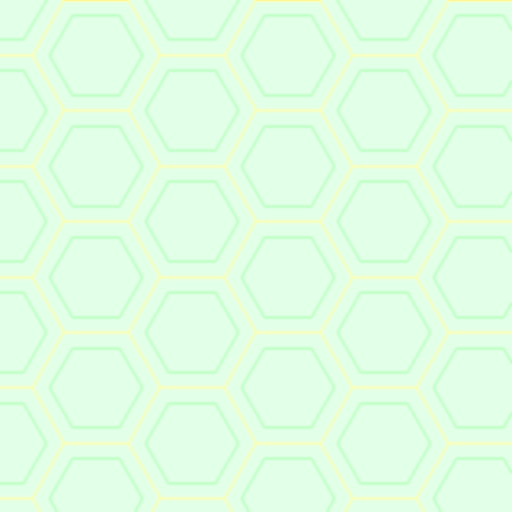
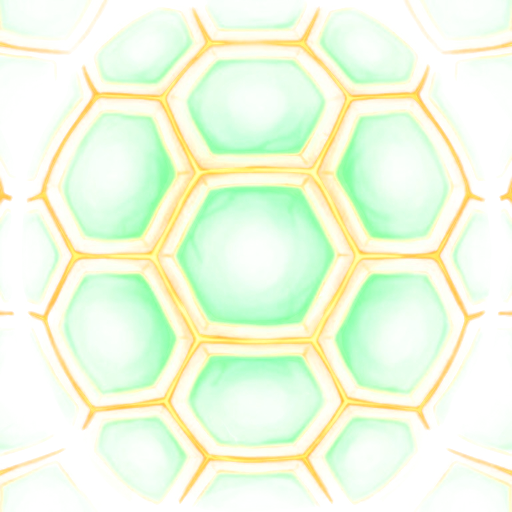
Muralha de Casco com a textura de casco gerada no Gemini
Claude-Session: https://claude.ai/code/session_01PxMUCP3EAMS7xMChCMNJhW

diff --git a/tools/vfx_texturas.py b/tools/vfx_texturas.py
@@ -136,6 +136,10 @@ if __name__ == '__main__':
             if path is None:
                 continue
             img = Image.open(path)
+            w, h = img.size
+            if w != h:  # IA às vezes entrega retangular: usa o quadrado do centro
+                m = min(w, h)
+                img = img.crop(((w - m) // 2, (h - m) // 2, (w + m) // 2, (h + m) // 2))
             img = img.resize((s, s), Image.LANCZOS)
             rgb, alpha = from_black(img)
             save_rgba(name, rgb, alpha)
